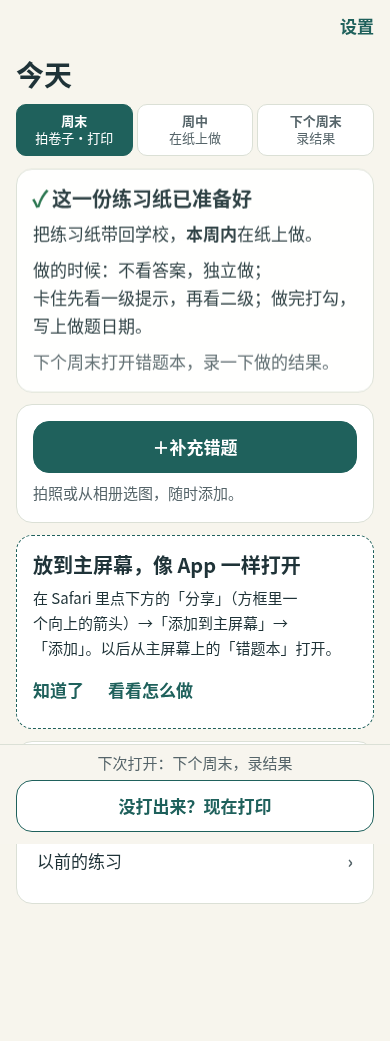
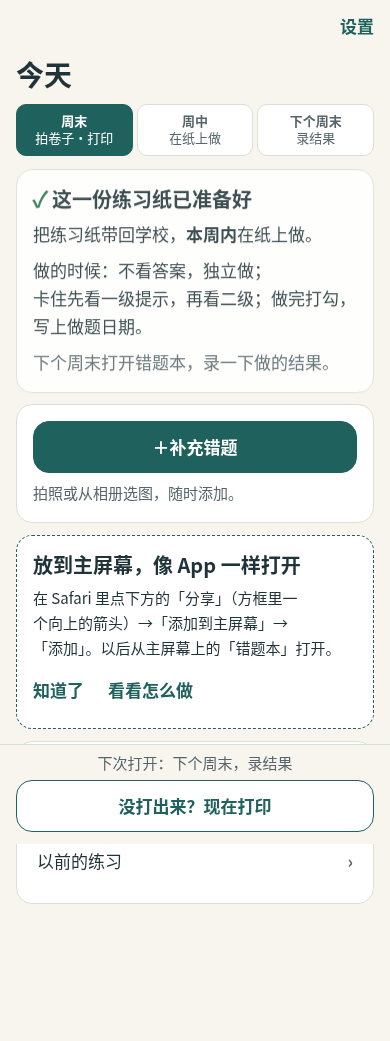
test(web): verify distinct uploads and document supplement acceptance

diff --git a/tests/e2e/webClient.spec.ts b/tests/e2e/webClient.spec.ts
@@ -499,7 +499,7 @@ test.describe('关掉脚本（等 AI 的页面）', () => {
     await fault('vision=hold');
     await page.goto(`${WEB}/s/capture`);
     const before = await page.getByTestId('photo-tile').count();
-    await page.locator('#camera-input').setInputFiles({ name: 'page.jpg', mimeType: 'image/jpeg', buffer: await synthetic('#f0c8c0', 760) });
+    await page.locator('#camera-input').setInputFiles({ name: 'page.jpg', mimeType: 'image/jpeg', buffer: await synthetic('#f0c8c0', 760 + before) });
     await page.getByRole('button', { name: '上传这张' }).click();
     await expect(page.getByTestId('photo-tile')).toHaveCount(before + 1);
     const row = page.getByTestId(`photo-row-${before + 1}`);

diff --git a/docs/quality/2026-10-15-supplement-mistakes.md b/docs/quality/2026-10-15-supplement-mistakes.md
@@ -1,0 +1,27 @@
+# 生成练习纸后继续补充错题
+
+本轮修复基于 `411017f`，保留主线的局部轮询、身份标签和相册多选上传。
+
+## 修改
+
+- 首页状态卡片下方常驻“＋补充错题”，入口不随整理、练习生成、周中等待或等待录结果而消失。
+- 完成标题改为“这一份练习纸已准备好”。继续使用现有拍照、识别和勾选流程。
+- 上传与识别中提示“照片已收到，正在找题。”；实际入库后才报告新增数量，包括勾选后的提示。拍照页的等待提示随局部轮询正确移除。
+- 提供本周错题、返回今天及原练习纸不变的提示。不修改选题、掌握或登录权限规则。
+
+## 实际验证
+
+全部使用本地合成数据和 mock provider，不使用真实学生资料。
+
+- `npm run verify` 的类型检查、构建和 Vitest 阶段通过：804 通过、5 个既有环境条件跳过。
+- 更正旧浏览器夹具重复照片后，最终 `npm run test:e2e`：35 通过、6 个环境/可选证据用例跳过。
+- 单元测试覆盖首页各状态入口；集成测试覆盖自动识别和手动勾选两条 5+2 路径，核对原练习、题号、打印快照及已有做题记录不变。
+- 邀请码浏览器流程覆盖生成 5 道练习、从首页新增 2 道、查看 7 道错题、刷新、退出再登录、重新打印及只录入原来 5 道结果。
+- 等待页浏览器夹具使用不同照片，避免重复上传的识别数量掩盖实际未入库。重新登录前后对比纸张时只排除会话轮换的 `sel-voice-context` 元信息，纸张内容仍完整比较。
+- 合并前独立代码审查完成，无遗留重要问题。
+
+## 截图
+
+![练习已准备好的首页](2026-10-15-supplement-screenshots/home-paper-ready.png)
+
+![新增两道错题后](2026-10-15-supplement-screenshots/supplement-saved.png)
